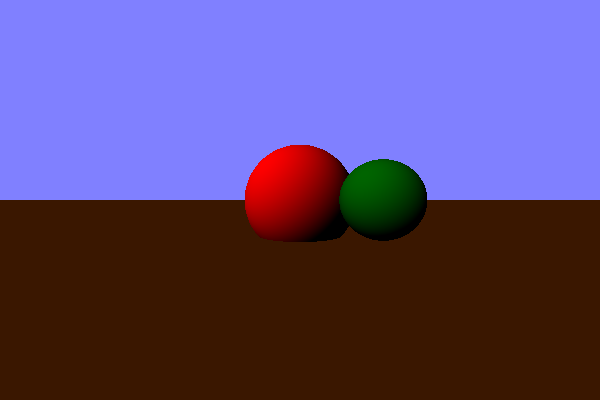
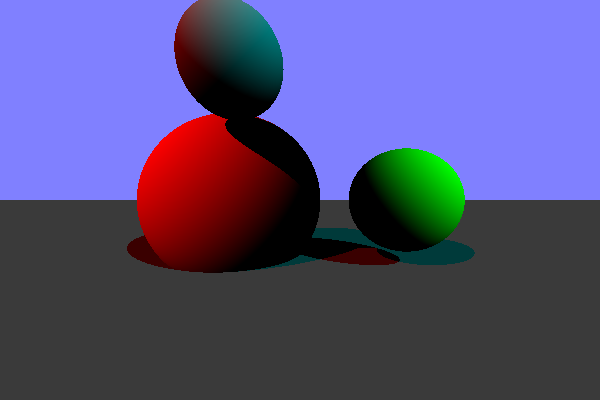
shadows

diff --git a/src/scene.rs b/src/scene.rs
@@ -6,6 +6,8 @@ use image::{DynamicImage, GenericImage, Rgba};
 use crate::base::{Color, Colorable, Drawable, Intersectable, Intersection, Ray};
 use crate::lighting::directional::DirectionalLight;
 
+const SHADOW_BIAS: f64 = 1e-13;
+
 pub struct Scene {
     width: u32,
     height: u32,
@@ -84,9 +86,16 @@ impl Scene {
         for light in self.lights.iter() {
             let direction_to_light = light.get_direction().neg().normalize();
 
-            let light_intensity = surface_normal.normalize()
+            // calculate if the point is a shadow
+            let shadow_ray = Ray::from(
+                hit_point.clone() + (surface_normal.factor(SHADOW_BIAS)),
+                direction_to_light.clone()
+            );
+            let in_light = self.trace(&shadow_ray).is_none();
+
+            let light_intensity = if in_light {surface_normal.normalize()
                 .dot(&direction_to_light.normalize())
-                .max(0.0) * light.get_intensity();
+                .max(0.0) * light.get_intensity()} else {0.0};
             let light_reflected = 1.0; // todo: implementiraj
 
             let light_color = light.get_color().get();

diff --git a/src/main.rs b/src/main.rs
@@ -17,19 +17,29 @@ fn main() {
         Color::new(100, 100, 100))));
 
     scene.add_object(Box::new(Sphere::new(
-        Vector::new(0.0, 0.0, -15.0),
+        Vector::new(-3.0, 0.0, -10.0),
         Color::new(255, 0, 0),
         4.0
     )));
     scene.add_object(Box::new(Sphere::new(
-        Vector::new(4.0, 0.0, -10.0),
+        Vector::new(4.0, 0.0, -8.0),
         Color::new(0, 255, 0),
         2.0
+    )));
+    scene.add_object(Box::new(Sphere::new(
+        Vector::new(-2.0, 4.0, -6.0),
+        Color::new(128, 128, 128),
+        1.5
     )));
 
     scene.add_light(DirectionalLight::new(
         Vector::new(1.0, -1.0, -1.0),
-        Color::new(255,100, 0),
+        Color::new(255,0, 0),
+        1.0
+    ));
+    scene.add_light(DirectionalLight::new(
+        Vector::new(-1.0, -1.0, -1.0),
+        Color::new(0,255, 255),
         1.0
     ));
     let img = scene.render();

diff --git a/src/base.rs b/src/base.rs
@@ -51,6 +51,12 @@ impl Ray {
             direction: Vector::new(sensor_x, sensor_y, -1.0).normalize(),
         }
     }
+    pub fn from(origin: Vector, direction: Vector) -> Ray {
+        Ray {
+            origin: origin,
+            direction: direction
+        }
+    }
     pub fn get_origin(&self) -> &Vector {
         &self.origin
     }
